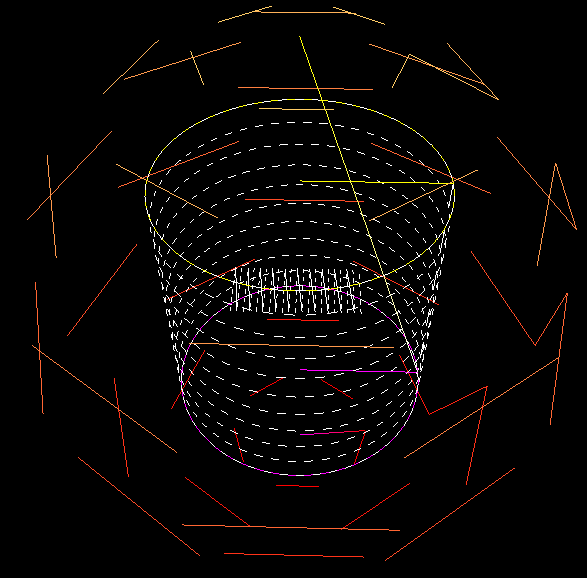
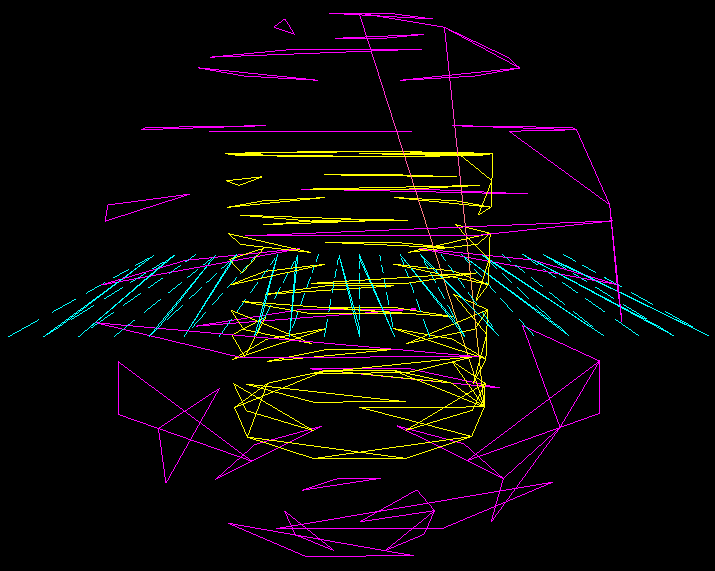
修改组合显示的BUG 修改Plane模型生成索引出现错乱的bug

diff --git a/Program.cs b/Program.cs
@@ -105,13 +105,13 @@ namespace deleteSharpDX {
         /// 初始化
         /// </summary>
         public MySharpDXForm() {
-            //[0]生成两个几何体的MeshData
+            //[0]生成几何体的MeshData
             GenerateSphere(20, 10, 10, out sphMesh);
             GenerateCylinder(10, 10, 20, 10, 10, out cylMesh);
-            GeneratePlane(20, 20, 10, 10, out plaMesh);
+            GeneratePlane(40, 30, 20, 15, out plaMesh);
             //[1]顶点缓冲区中各物体的 偏移量
             mSphVertexOffset = 0;
-            mCylVertexOffset = sphMesh.Vertices.Length;
+            mCylVertexOffset = mSphVertexOffset + sphMesh.Vertices.Length;
             mPlaVertexOffset = mCylVertexOffset + cylMesh.Vertices.Length;
             //[2]索引缓冲区中各物体的 大小
             mSphIndexCount = sphMesh.Indices.Length;
@@ -119,11 +119,11 @@ namespace deleteSharpDX {
             mPlaIndexCount = plaMesh.Indices.Length;
             //[3]索引缓冲区中各物体的 偏移量
             mSphIndexOffset = 0;
-            mCylIndexOffset = mSphIndexCount;
-            mPlaIndexOffset = mCylIndexOffset + mPlaIndexCount;
+            mCylIndexOffset = mSphIndexOffset + mSphIndexCount;
+            mPlaIndexOffset = mCylIndexOffset + mCylIndexCount;
             //[4]顶点和索引的总数
             totalVertexCount = mPlaVertexOffset + plaMesh.Vertices.Length;
-            totalIndexCount = mSphIndexCount + mCylIndexCount + mPlaIndexCount;
+            totalIndexCount = mPlaIndexOffset + mPlaIndexCount;
             //[5]将顶点缓冲区打包到一大块
             vertexsInOne = new List<MyVertex>(totalVertexCount);
             for (int i = 0; i < sphMesh.Vertices.Length; i++) {
@@ -243,11 +243,11 @@ namespace deleteSharpDX {
                 mfxWorldViewProj.SetMatrix(worldViewProj);
                 mfxPass.Apply(_d3DDeviceContext);
                 //索引画图
-                _d3DDeviceContext.DrawIndexed(mCylIndexCount, mCylIndexOffset, mCylVertexOffset);
-                _d3DDeviceContext.DrawIndexed(mPlaIndexCount, mPlaIndexOffset, mPlaVertexOffset);
-                _d3DDeviceContext.DrawIndexed(mSphIndexCount, mSphIndexOffset, mSphVertexOffset);
+                //_d3DDeviceContext.DrawIndexed(mCylIndexCount, mCylIndexOffset, mCylVertexOffset);
+                //_d3DDeviceContext.DrawIndexed(mSphIndexCount, mSphIndexOffset, mSphVertexOffset);
+                //_d3DDeviceContext.DrawIndexed(mPlaIndexCount, mPlaIndexOffset, mPlaVertexOffset);
                 //顶点画图
-                //_d3DDeviceContext.Draw(vertexsInOne.Count, 0);
+                _d3DDeviceContext.Draw(vertexsInOne.Count, 0);
                 _swapChain.Present(0, PresentFlags.None);
                 fpsCounter++;
                 if (clock.ElapsedMilliseconds - lastTime >= 1000) {
@@ -287,7 +287,6 @@ namespace deleteSharpDX {
                 TangentU = new Vector3(0, 0, 0),
                 TexC = new Vector2(0, 0),
             });
-            float layerColor = 0f;
             //[2]层层建模 侧面顶点数据
             for (int i = 1; i < stackNum; i++) {
                 // 建模中心 y 在中心高度处，从低往高建
@@ -302,16 +301,15 @@ namespace deleteSharpDX {
                     myVertex.TexC.X = (float)j / sliceNum;
                     myVertex.TexC.Y = 1.0f - (float)i / stackNum;
                     myVertex.TangentU = new Vector3(-s, 0f, c);
-                    myVertex.Color = new Vector4(1, layerColor, 0.5f * layerColor, 1);
+                    myVertex.Color = new Vector4(1, 0, 1, 1);
                     myVertex.Normal = new Vector3(1f, 0, 0);
                     tempVertex.Add(myVertex);
                 }
-                layerColor += 0.1f;
             }
             //[3]顶部
             tempVertex.Add(new MyVertex() {
                 Position = new Vector3(0, rad, 0),
-                Color = new Vector4(1, 1, 0, 1),
+                Color = new Vector4(1, 0, 1, 1),
                 Normal = new Vector3(0, 1, 0),
                 TangentU = new Vector3(0, 0, 0),
                 TexC = new Vector2(0, 0),
@@ -386,7 +384,7 @@ namespace deleteSharpDX {
                     myVertex.TexC.X = (float)j / sliceCount;
                     myVertex.TexC.Y = 1.0f - (float)i / stackCount;
                     myVertex.TangentU = new Vector3(-s, 0f, c);
-                    myVertex.Color = new Vector4(1, 1, 1, 1);
+                    myVertex.Color = new Vector4(1, 1, 0, 1);
                     float dr = bottomRadius - topRadius;
                     Vector3 bitangent = new Vector3(dr * c, -height, dr * s);
                     myVertex.Normal = Vector3.Normalize(Vector3.Cross(myVertex.TangentU, bitangent));
@@ -458,7 +456,7 @@ namespace deleteSharpDX {
                 myVertex.TexC.X = x / height + 0.5f;
                 myVertex.TexC.Y = z / height + 0.5f;
                 myVertex.TangentU = new Vector3(1, 0, 0);
-                myVertex.Color = new Vector4(1, 0, 1, 1);
+                myVertex.Color = new Vector4(1, 1, 0, 1);
                 myVertex.Normal = new Vector3(0, -1, 0);
 
                 tempVertex.Add(myVertex);
@@ -469,7 +467,7 @@ namespace deleteSharpDX {
             myVertexCenter.TexC.X = 0.5f;
             myVertexCenter.TexC.Y = 0.5f;
             myVertexCenter.TangentU = new Vector3(1, 0, 0);
-            myVertexCenter.Color = new Vector4(1, 0, 1, 1);
+            myVertexCenter.Color = new Vector4(1, 1, 0, 1);
             myVertexCenter.Normal = new Vector3(0, -1, 0);
 
             tempVertex.Add(myVertexCenter);
@@ -537,41 +535,40 @@ namespace deleteSharpDX {
             //[0]顶点数据
             List<MyVertex> tempVertice = new List<MyVertex>();
             MyVertex tempVex;
-            lenNum += 1;
-            widNum += 1;
+            var lenPointNum = lenNum + 1;
+            var wdPointNum  = widNum + 1;
             float dl = length / lenNum;
             float dw = width / widNum;
             float y = 0f;
-            for (int i = 0; i < lenNum; i++) {
+            for (int i = 0; i < lenPointNum; i++) {
                 float x = -length / 2 + i * dl;
                 //第i列(从前往后)
-                for (int j = 0; j < widNum; j++) {
+                for (int j = 0; j < wdPointNum; j++) {
                     //第j行(从左往右)
                     float z = -width / 2 + j * dw;
                     tempVex = new MyVertex();
                     tempVex.Position = new Vector3(x, y, z);
-                    tempVex.Color = new Vector4(1, 1, 1, 1);
+                    tempVex.Color = new Vector4(0, 1, 1, 1);
                     tempVex.Normal = new Vector3(0, 1, 0);
                     tempVertice.Add(tempVex);
                 }
             }
             //[1]索引数据
             List<int> tempIndex = new List<int>();
-            for (int i = 0; i < lenNum - 1; i++) {
-                //第i列(从前往后)
-                for (int j = 0; j < widNum - 1; j++) {
-                    //第j行(从左往右)
-                    tempIndex.Add(i * widNum + j);
-                    tempIndex.Add(i * widNum + j + 1);
-                    tempIndex.Add((i + 1) * widNum + j + 1);
-                    tempIndex.Add((i + 1) * widNum + j + 1);
-                    tempIndex.Add((i + 1) * widNum + j);
-                    tempIndex.Add(i * widNum + j);
+            for (int i = 0; i < lenNum; i++) {
+                //第i列(从左往右)
+                for (int j = 0; j < widNum; j++) {
+                    //第j行(从前往后)
+                    tempIndex.Add(i * wdPointNum + j);
+                    tempIndex.Add(i * wdPointNum + j + 1);
+                    tempIndex.Add((i + 1) * wdPointNum + j + 1);
+                    tempIndex.Add((i + 1) * wdPointNum + j + 1);
+                    tempIndex.Add((i + 1) * wdPointNum + j);
+                    tempIndex.Add(i * wdPointNum + j);
                 }
             }
-
-            outMesh.Indices = tempIndex.ToArray();
             outMesh.Vertices = tempVertice.ToArray();
+            outMesh.Indices = tempIndex.ToArray();
         }
         #endregion
         #region Some Unimmportant Methods
